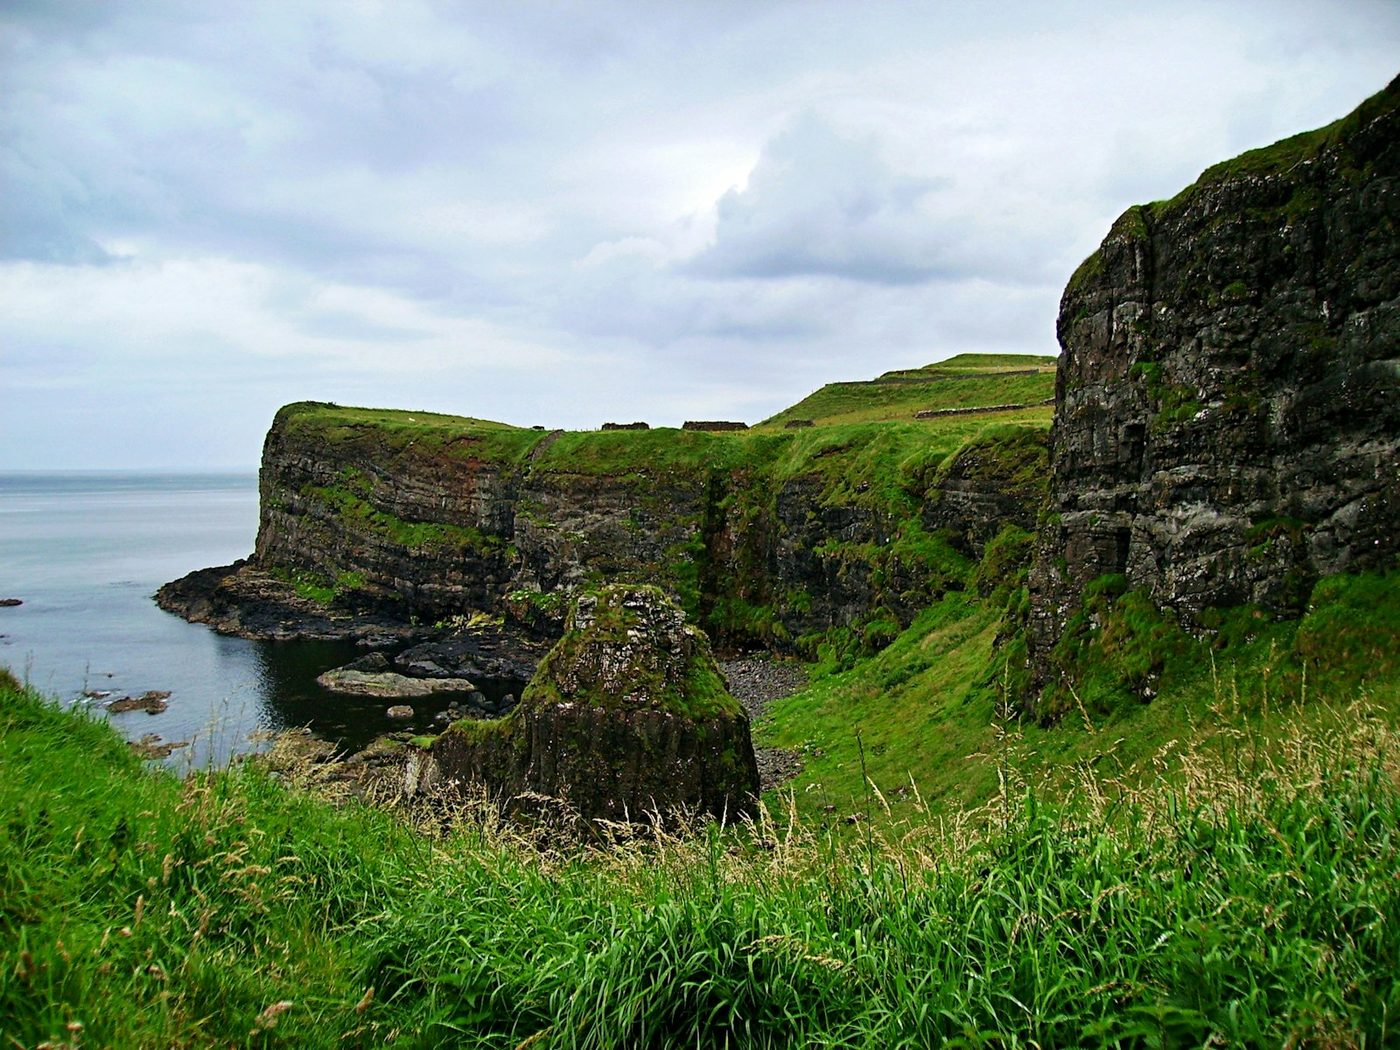
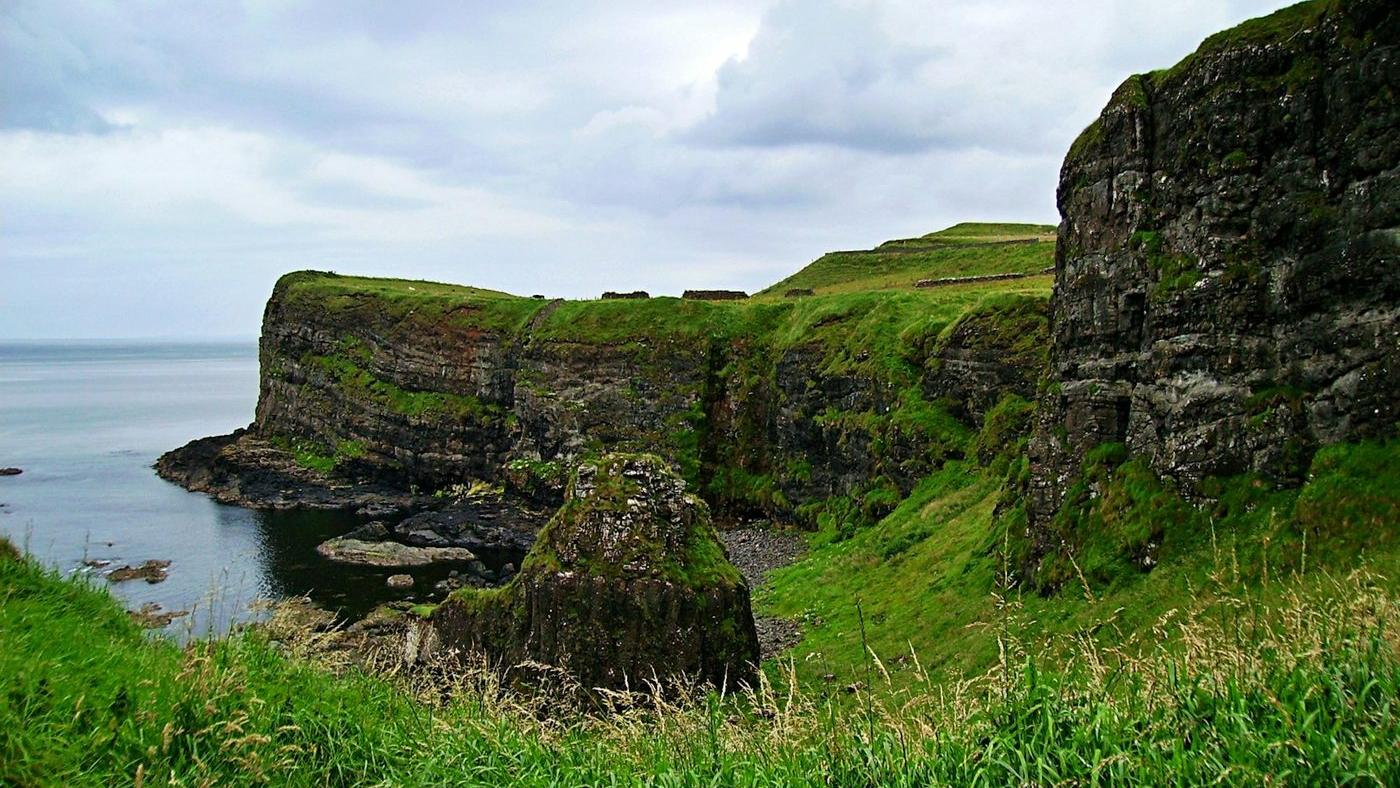
Speed up tour pages: smaller WebP tour photos and card-size versions
Tour photos were 1400px JPEGs up to 650 KB each (2.4 MB on the tours page).
Cropped to their display shape, added WebP versions and 800px card images.

Claude-Session: https://claude.ai/code/session_01RNbFdByvwSAHujTgWS5kFP

diff --git a/src/lib/tours.ts b/src/lib/tours.ts
@@ -46,7 +46,7 @@ export const TOURS: readonly Tour[] = [
     ],
     whatsappMessage:
       "Hi, I'd like to enquire about a private day trip to the Giant's Causeway and Causeway Coast.",
-    image: withBasePath("/images/tours/giants-causeway.jpg"),
+    image: withBasePath("/images/tours/giants-causeway.webp"),
     imageAlt: "Hexagonal basalt columns at Giant's Causeway on the Causeway Coast",
     faqs: [
       {
@@ -95,7 +95,7 @@ export const TOURS: readonly Tour[] = [
     ],
     whatsappMessage:
       "Hi, I'd like to enquire about a private Belfast city highlights day trip.",
-    image: withBasePath("/images/tours/belfast-city.jpg"),
+    image: withBasePath("/images/tours/belfast-city.webp"),
     imageAlt: "Belfast City Hall and city centre skyline",
     faqs: [
       {
@@ -144,7 +144,7 @@ export const TOURS: readonly Tour[] = [
     ],
     whatsappMessage:
       "Hi, I'd like to enquire about a private Game of Thrones filming locations day trip.",
-    image: withBasePath("/images/tours/game-of-thrones.jpg"),
+    image: withBasePath("/images/tours/game-of-thrones.webp"),
     imageAlt: "Dark Hedges tree-lined avenue in County Antrim",
     faqs: [
       {
@@ -188,7 +188,7 @@ export const TOURS: readonly Tour[] = [
     ],
     whatsappMessage:
       "Hi, I'd like to enquire about a private Antrim Coast scenic drive day trip.",
-    image: withBasePath("/images/tours/antrim-coast.jpg"),
+    image: withBasePath("/images/tours/antrim-coast.webp"),
     imageAlt: "Dramatic Antrim Coast cliffs beside Dunluce Castle",
     faqs: [
       {

diff --git a/src/components/TourCard.tsx b/src/components/TourCard.tsx
@@ -12,7 +12,7 @@ export default function TourCard({ tour }: TourCardProps) {
     <article className="group flex flex-col overflow-hidden rounded-2xl border border-white/10 bg-white/[0.03] transition-all hover:border-emerald/30 hover:bg-white/[0.06] hover:shadow-xl hover:shadow-emerald/5">
       <Link href={`/tours/${tour.slug}/`} className="relative block aspect-[16/10] overflow-hidden">
         <Image
-          src={tour.image}
+          src={tour.image.replace(/\.webp$/, "-card.webp")}
           alt={tour.imageAlt}
           fill
           className="object-cover transition-transform duration-500 group-hover:scale-105"
